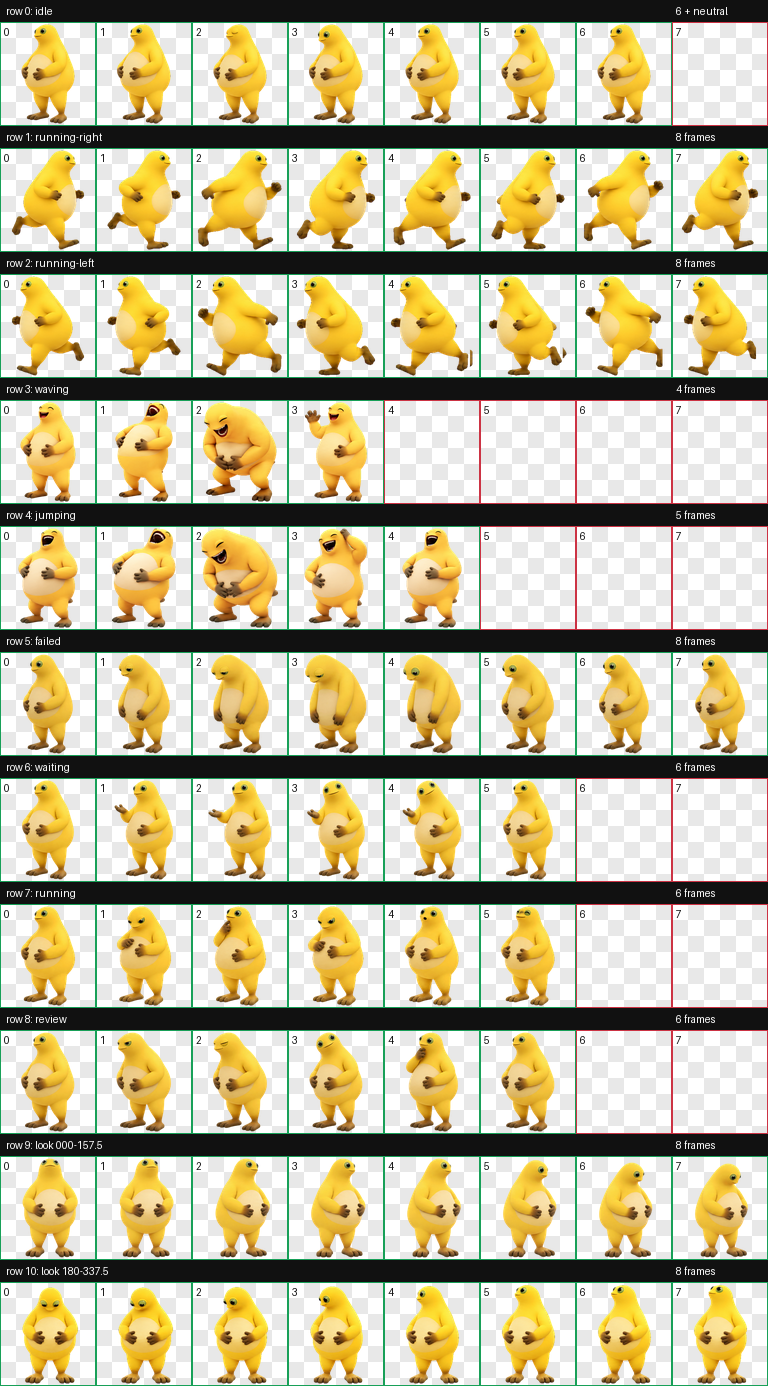
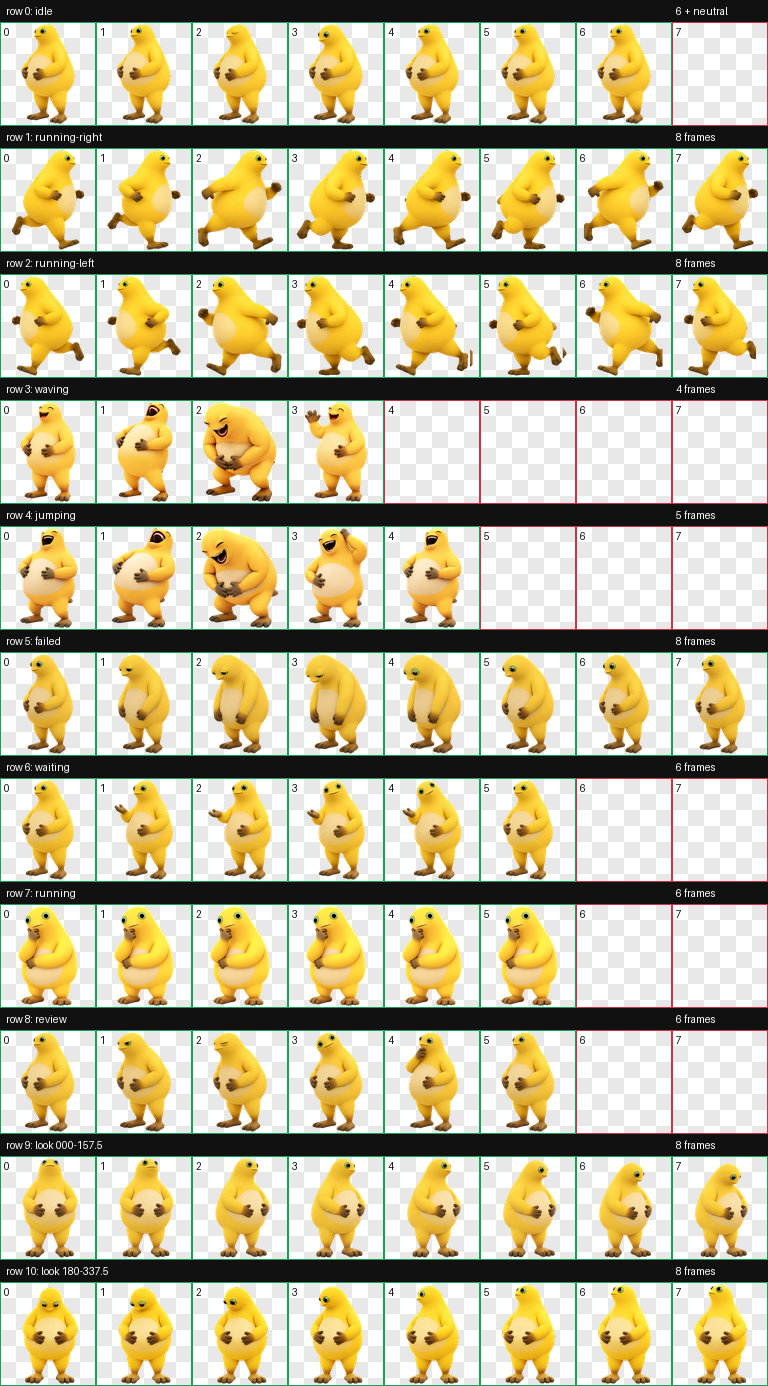
Add static thinking pose for processing state

Changed region(s): [[0.0, 0.6515, 0.75, 0.7446]]

diff --git a/README.md b/README.md
@@ -1,6 +1,6 @@
 # 奶蛙 NaiWa · Codex 桌面宠物
 
-一个为 Codex 桌面应用制作的自定义 v2 动画宠物。角色采用圆润的奶黄色 3D 玩具风格，包含待机、跑步、等待、工作、完成反馈、方向注视，以及参考动作视频还原的“捧腹大笑”交互动画。
+一个为 Codex 桌面应用制作的自定义 v2 动画宠物。角色采用圆润的奶黄色 3D 玩具风格，包含待机、跑步、等待、完成反馈、方向注视、参考动作视频还原的“捧腹大笑”交互，以及 Codex 思考处理时显示的静态托腮姿势。
 
 > 这是非官方的同人桌宠项目，与 OpenAI 或相关角色权利方无隶属、授权或背书关系。
 
@@ -8,9 +8,9 @@
 
 ## 动画预览
 
-| 招呼 / 交互大笑 | 鼠标进入 / 跳跃状态大笑 |
-| --- | --- |
-| ![waving belly laugh](qa/previews/waving.gif) | ![jumping belly laugh](qa/previews/jumping.gif) |
+| 招呼 / 交互大笑 | 鼠标进入 / 跳跃状态大笑 | 思考处理中（静态） |
+| --- | --- | --- |
+| ![waving belly laugh](qa/previews/waving.gif) | ![jumping belly laugh](qa/previews/jumping.gif) | ![static thinking pose](qa/previews/thinking.png) |
 
 ## 功能
 
@@ -19,6 +19,7 @@
 - 常规工作、等待、失败和完成反馈
 - 16 个注视方向
 - `waving` 与 `jumping` 两种交互状态均使用捧腹大笑动作
+- Codex 思考处理对应的 `running` 状态使用静态托腮姿势，六个有效格逐像素相同
 - 透明背景、无阴影残留，适合直接作为 Codex v2 宠物图集
 
 ## 安装
@@ -26,17 +27,17 @@
 ### 方法一：下载仓库
 
 1. 下载本仓库并解压。
-2. 在 `%USERPROFILE%\.codex\pets\` 下新建 `naiwa-laugh-v3` 文件夹。
+2. 在 `%USERPROFILE%\.codex\pets\` 下新建 `naiwa-laugh-v4` 文件夹。
 3. 将仓库根目录的 `pet.json` 和 `spritesheet.webp` 复制到该文件夹。
 4. 打开 Codex 的 **Settings → Pets**，点击 **Refresh**。
-5. 选择 **奶蛙 NaiWa（交互笑修复版）**。
+5. 选择 **奶蛙 NaiWa（大笑与思考版）**。
 
 ### 方法二：PowerShell
 
 ```powershell
 git clone https://github.com/Swordmynew/naiwa-petdex.git
 
-$target = Join-Path $env:USERPROFILE ".codex\pets\naiwa-laugh-v3"
+$target = Join-Path $env:USERPROFILE ".codex\pets\naiwa-laugh-v4"
 New-Item -ItemType Directory -Force -Path $target | Out-Null
 Copy-Item -LiteralPath ".\naiwa-petdex\pet.json" -Destination $target -Force
 Copy-Item -LiteralPath ".\naiwa-petdex\spritesheet.webp" -Destination $target -Force
@@ -53,7 +54,7 @@ Copy-Item -LiteralPath ".\naiwa-petdex\spritesheet.webp" -Destination $target -F
 | 网格 | 8 列 × 11 行 |
 | 单帧尺寸 | 192 × 208 |
 | 透明通道 | RGBA |
[2 lines of base64/hex data omitted]
 
 标准动画行如下：
 
@@ -66,7 +67,7 @@ Copy-Item -LiteralPath ".\naiwa-petdex\spritesheet.webp" -Destination $target -F
 | 4 | `jumping` | 5 | 鼠标进入或互动时的捧腹大笑 |
 | 5 | `failed` | 8 | 失败或取消反馈 |
 | 6 | `waiting` | 6 | 等待用户输入 |
-| 7 | `running` | 6 | 工作处理中 |
+| 7 | `running` | 6 | 静态托腮思考；六格同图、无动画 |
 | 8 | `review` | 6 | 完成、等待查看 |
 | 9–10 | `look` | 16 | 16 个注视方向 |
 
@@ -79,6 +80,12 @@ Copy-Item -LiteralPath ".\naiwa-petdex\spritesheet.webp" -Destination $target -F
 - 第 4 行未使用的三个单元格保持全透明。
 
 详细修复记录位于 [`qa/repair-notes.md`](qa/repair-notes.md)。
+
+## 静态思考姿势更新
+
+Codex 接收输入并进行思考或处理时会使用第 7 行 `running` 状态。本版本根据用户提供的参考图，将该状态替换为一只手托腮、另一只手托住手肘的完整全身姿势。
+
+为了确保它完全静止，同时又满足 Codex v2 图集对该状态六个有效格的读取规则，六格使用逐像素相同的图像。应用即使继续轮播帧，宠物也不会发生动作、位移或抖动。
 
 ## 验证
 
@@ -94,6 +101,7 @@ Copy-Item -LiteralPath ".\naiwa-petdex\spritesheet.webp" -Destination $target -F
 
 - [`validation.json`](validation.json)：完整图集验证报告
 - [`qa/review-jumping.json`](qa/review-jumping.json)：大笑交互帧检查
+- [`qa/review-thinking.json`](qa/review-thinking.json)：静态思考帧一致性检查
 - [`qa/run-summary.json`](qa/run-summary.json)：修复与安装摘要
 - [`qa/chroma-despill.json`](qa/chroma-despill.json)：边缘去色键报告
 - [`qa/video-motion-reference.png`](qa/video-motion-reference.png)：动作参考帧
@@ -111,12 +119,14 @@ Copy-Item -LiteralPath ".\naiwa-petdex\spritesheet.webp" -Destination $target -F
     ├── contact-sheet.png
     ├── repair-notes.md
     ├── review-jumping.json
+    ├── review-thinking.json
     ├── run-summary.json
     ├── chroma-despill.json
     ├── video-motion-reference.png
     └── previews/
         ├── waving.gif
-        └── jumping.gif
+        ├── jumping.gif
+        └── thinking.png
 ```
 
 ## License
@@ -127,4 +137,4 @@ Copy-Item -LiteralPath ".\naiwa-petdex\spritesheet.webp" -Destination $target -F
 
 ### English summary
 
-NaiWa is a custom Codex desktop pet using the v2 8×11 sprite format. It includes idle, running, task-state, 16-direction look, and video-inspired belly-laugh interactions. Copy `pet.json` and `spritesheet.webp` to `%USERPROFILE%\.codex\pets\naiwa-laugh-v3`, refresh Pets in Codex Settings, and select **奶蛙 NaiWa（交互笑修复版）**.
+NaiWa is a custom Codex desktop pet using the v2 8×11 sprite format. It includes idle, directional running, task states, 16-direction look, video-inspired belly-laugh interactions, and a completely static hand-on-chin thinking pose for the processing state. Copy `pet.json` and `spritesheet.webp` to `%USERPROFILE%\.codex\pets\naiwa-laugh-v4`, refresh Pets in Codex Settings, and select **奶蛙 NaiWa（大笑与思考版）**.

diff --git a/qa/repair-notes.md b/qa/repair-notes.md
@@ -5,3 +5,5 @@
 - 未使用的第 4 行第 6—8 格保持透明。
 - 最终图集规格：8 列 × 11 行；单格 192 × 208；总尺寸 1536 × 2288；`spriteVersionNumber` 为 2。
 - 自动检查：图集结构、透明背景、色键残留、帧数量及越界检查全部通过。
+- 思考状态更新：第 7 行 `running` 的六个有效格替换为逐像素相同的静态托腮姿势，一只手位于下巴，另一只手横过腹部托住手肘；第 7、8 个未使用格保持透明。
+- 静态性验证：六帧 SHA-256 完全一致，因此应用轮播时不会出现动作、位置变化或抖动。
